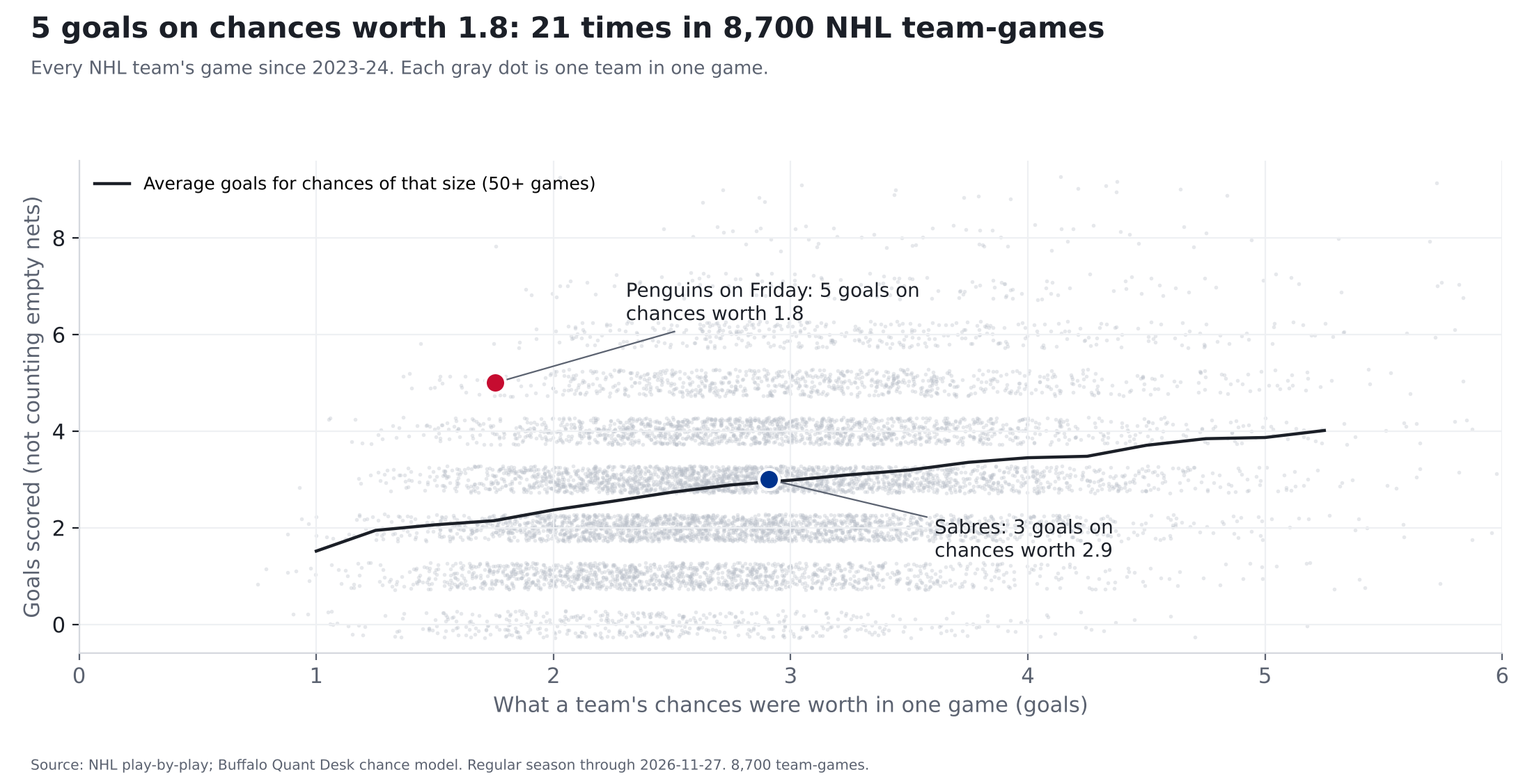
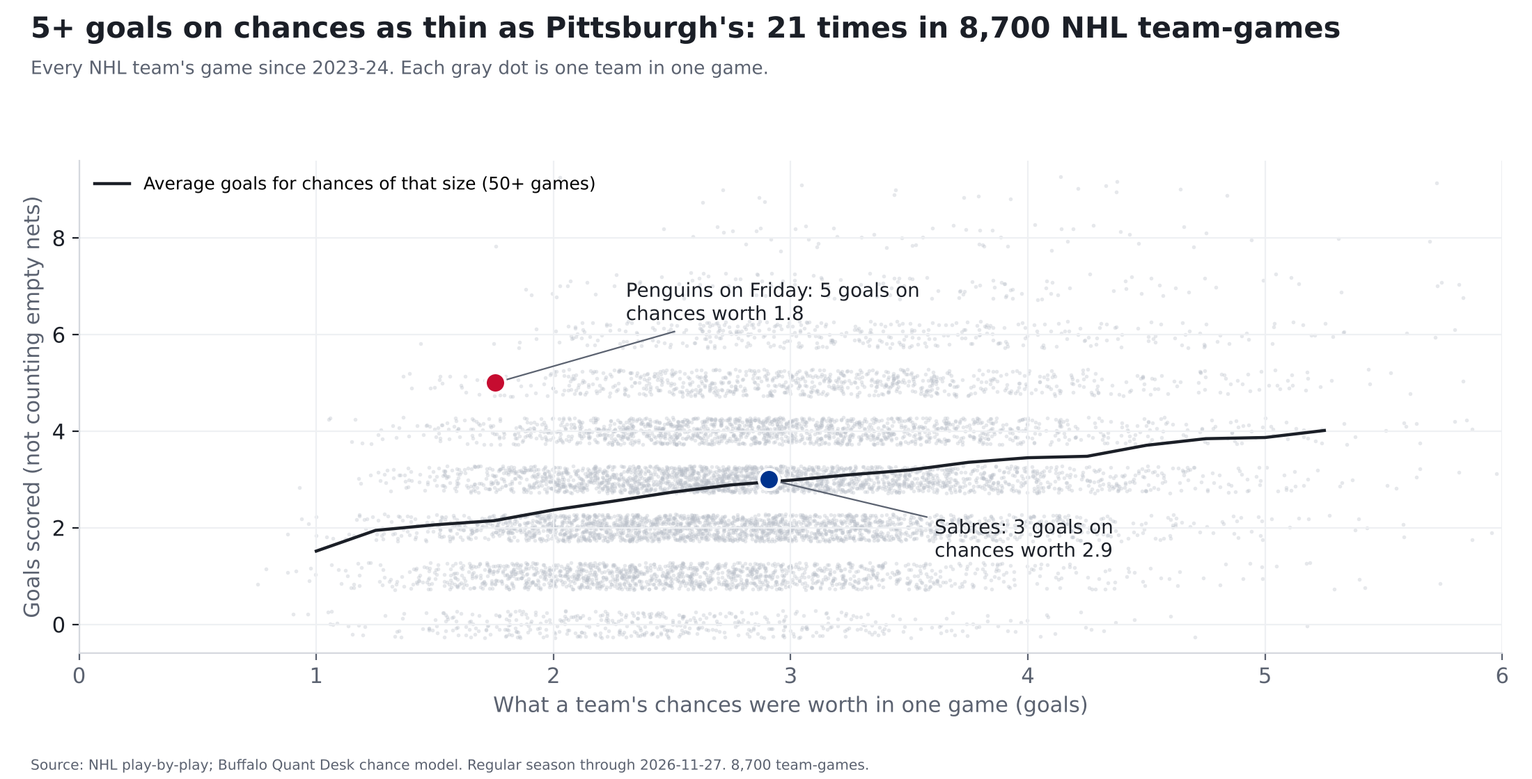
Sabres-Penguins recap: round-1 review fixes
Claude-Session: https://claude.ai/code/session_01EpbAX7fMNT8LnsxAN6UoCp

Changed region(s): [[0.0309, 0.0, 0.8964, 0.0625]]

diff --git a/src/reports/sabres_pit_postgame_nov27.py b/src/reports/sabres_pit_postgame_nov27.py
@@ -71,6 +71,7 @@ def main(as_of=AS_OF):
     assert liz_before == 41
     far = pg.sort_values("dist").iloc[-1]
     close_b = goals[goals.team == "BUF"].sort_values("dist").iloc[0]
+    assert close_b.shooter_id == goals[goals.team == "BUF"].shooter_id.iloc[-1]
 
     # ---- how rare: every team-game since 2023-24
     tg = u.groupby(["game_id", "season", "team"]).agg(gl=("goal", "sum"), x=("xg", "sum")).reset_index()
@@ -78,6 +79,8 @@ def main(as_of=AS_OF):
     rare = tg[(tg.gl >= me.gl) & (tg.x <= me.x)]
     rare_pit = int((rare.team == "PIT").sum())
     assert (len(rare), len(tg), rare_pit, int(me.gl)) == (21, 8700, 5, 5)
+    every = int(round(len(tg) / len(rare), -2))
+    assert every == 400
     near = tg[(tg.x - me.x).abs() <= 0.25]
     avg_near = float(near.gl.mean())
 
@@ -133,7 +136,7 @@ def main(as_of=AS_OF):
     for sp in ("top", "right"):
         ax.spines[sp].set_visible(False)
     fig.subplots_adjust(left=0.08, right=0.97, bottom=0.13, top=0.80)
-    finish(fig, f"{int(me.gl)} goals on chances worth {me.x:.1f}: {len(rare)} times in {len(tg):,} NHL team-games",
+    finish(fig, f"{int(me.gl)}+ goals on chances as thin as Pittsburgh's: {len(rare)} times in {len(tg):,} NHL team-games",
            "Every NHL team's game since 2023-24. Each gray dot is one team in one game.", "x")
     fig.texts[-1].set_text(f"Source: NHL play-by-play; Buffalo Quant Desk chance model. Regular season through {as_of}. {len(tg):,} team-games.")
     fig.savefig(OUT / PNG)
@@ -141,29 +144,28 @@ def main(as_of=AS_OF):
 
     plist = "; ".join(f"{r.name} from {r.dist:.0f} feet ({r.xg:.0%})" for r in pg.itertuples())
     bl = [r.name for r in goals[goals.team == "BUF"].itertuples()]
-    md = f"""# Penguins 6, Sabres 3: Pittsburgh's finishing came back all at once
+    md = f"""# Penguins 6, Sabres 3: Buffalo had the chances, Pittsburgh had the finish
 
 **Buffalo had the better chances on Friday, worth about {x_b:.1f} goals to Pittsburgh's {x_p:.1f}. The Penguins scored {int(me.gl)} anyway, plus an empty-netter.
-Since 2023-24, a team has scored {int(me.gl)} or more on chances worth {me.x:.1f} or less only {len(rare)} times in {len(tg):,} team-games, about once every
-{len(tg) / len(rare):,.0f}. Our preview said Pittsburgh's poor finishing probably wouldn't last. It didn't take long. Our call, Sabres {pr.probability:.0%}, was a miss.**
+Since 2023-24, a team has scored {int(me.gl)} or more on chances worth no more than Pittsburgh's only {len(rare)} times in {len(tg):,} team-games, about once every
+{every}. Our preview said Pittsburgh's poor finishing probably wouldn't last over the season. One game doesn't prove that, but Friday was a big swing. Our call, Sabres {pr.probability:.0%}, was a miss.**
 
-![{int(me.gl)} goals on chances worth {me.x:.1f}: {len(rare)} times in {len(tg):,} NHL team-games]({PNG})
+![{int(me.gl)}+ goals on chances as thin as Pittsburgh's: {len(rare)} times in {len(tg):,} NHL team-games]({PNG})
 
 ## The game
 
-Buffalo had {n_b} unblocked shots to Pittsburgh's {n_p}, and {share_g:.0%} of the chances. Buffalo's goals came from {", ".join(bl[:-1])} and {bl[-1]};
-{close_b['name']}'s came from {close_b.dist:.0f} feet, a chance worth about {close_b.xg:.0%}.
+Buffalo had {n_b} shots that weren't blocked to Pittsburgh's {n_p}, and {share_g:.0%} of the chances. Buffalo's goals came from {", ".join(bl[:-1])} and {bl[-1]}, whose goal came from {close_b.dist:.0f} feet, a chance worth about {close_b.xg:.0%}.
 
 Pittsburgh's five: {plist}. The percentages are each shot's chance of going in. {en_name} added an empty-netter late.
 
 **In goal:** {g1n} allowed {int(g1.ga)} goals on {int(g1.n)} unblocked shots worth about {g1.x:.1f} and was replaced after Lizotte's goal, {pull_c} into the {ordn(pull_p)} period.
-{g2n} allowed {int(g2.ga)} on {int(g2.n)} shots worth about {g2.x:.1f}. {pit_g} was in net for Pittsburgh and allowed {int(g.home_score)} on chances worth {x_b:.1f}, about what an average goalie would.
+{g2n} allowed {int(g2.ga)} on {int(g2.n)} unblocked shots worth about {g2.x:.1f}. {pit_g} was in net for Pittsburgh and allowed {int(g.home_score)} on chances worth {x_b:.1f}, about what an average goalie would.
 
 ## How rare that is
 
 Every shot that isn't blocked gets a value: the share of similar shots that go in, based on distance, angle, shot type and whether it's a rebound or rush.
 Add them up and you get what a team's chances were worth. Teams with chances worth about {me.x:.1f} (within a quarter-goal) have scored {avg_near:.1f} goals on average.
-Pittsburgh scored {int(me.gl)}. The chart shows every team-game since 2023-24; only {len(rare)} had {int(me.gl)} or more goals on chances worth {me.x:.1f} or less, and {rare_pit} of them, counting Friday, are Pittsburgh's.
+Pittsburgh scored {int(me.gl)}. The chart shows every team-game since 2023-24; only {len(rare)} had {int(me.gl)} or more goals on chances worth no more than Pittsburgh's, and {rare_pit} of them, counting Friday, are Pittsburgh's.
 
 **How we checked it.** The shot values are scaled each season so that, across the league, chances add up to goals. And the 41-shot example in our preview,
 Blake Lizotte with no goals on chances worth about 3, scored on Friday from {liz.dist.iloc[0]:.0f} feet, a chance worth about {liz.xg.iloc[0]:.0%}. That's what finishing luck looks like
@@ -172,12 +174,12 @@ when it turns.
 ## What it means
 
 One game doesn't change much. Buffalo gets {B.share:.0%} of the chances in its games, {ordn(rk['share']['BUF'])} in the NHL, and that's the number that carries forward.
-Pittsburgh is still {ordn(rk['fin']['PIT'])} in finishing after Friday; one big night only moves a season so far. The Sabres are {W}-{L}-{OTL}.
+Pittsburgh is {ordn(rk['fin']['PIT'])} in finishing after Friday; one big night only moves a season so far. The Sabres are {W}-{L}-{OTL}.
 
 ## Receipts
 
 - **Our preview** said Pittsburgh's finishing and goaltending would probably come back toward average, and that it wouldn't necessarily show up in one game.
-  The finishing showed up in one game, though one game is mostly luck either way. Murashov had an average night. We'll keep tracking both over the season.
+  One game is mostly luck either way, so Friday doesn't settle a season-long call. Murashov had an average night. We'll keep tracking both over the season.
 - **The Ledger** gave the Sabres {pr.probability:.0%}. They lost, so it's a miss. On our scorecard, where 0 is perfect and a coin flip scores 0.25, it scored {mg.brier:.2f}.
   Our record is {right} of {len(m)}.
 
@@ -193,7 +195,7 @@ Pittsburgh is still {ordn(rk['fin']['PIT'])} in finishing after Friday; one big 
     (OUT / f"{SLUG}.hero.json").write_text(json.dumps({
         "label": "Penguins 6, Sabres 3",
         "big": [[int(me.gl), f"Pittsburgh goals on chances worth {me.x:.1f}, not counting the empty-netter"],
-                [f"1 in {len(tg) / len(rare):,.0f}", "how often a team does that, since 2023-24"]],
+                [f"1 in {every}", "how often a team scores 5+ on chances that thin, since 2023-24"]],
         "note": f"Buffalo had {share_g:.0%} of the chances. Our 51% Sabres call was a miss.",
     }, indent=1))
     print(md)

diff --git a/src/site/build.py b/src/site/build.py
@@ -19,7 +19,7 @@ SITE = ROOT / "site"
 DOMAIN = "https://buffaloquant.com"
 ARTICLES = [  # newest first: (slug, report file, date, kicker, dek, hero image)
     ("sabres-penguins-postgame-nov-27", "2026-11-27-sabres-pit-postgame.md", "2026-11-28", "Sabres &middot; Recap",
-     "Buffalo had 62% of the chances and lost 6-3. Pittsburgh scored 5 on chances worth 1.8, something that's happened 21 times in 8,700 team-games since 2023-24.",
+     "Buffalo had 62% of the chances and lost 6-3. Pittsburgh scored 5 on chances worth 1.8. Since 2023-24, a team has scored 5 or more on chances that thin only 21 times in 8,700 team-games.",
      "sabres-pit-nov27-postgame.png"),
     ("sabres-penguins-pregame-nov-27", "2026-11-27-sabres-pit-pregame.md", "2026-11-27", "Sabres &middot; Preview",
      "Pittsburgh has the 2nd-fewest points in the NHL but gets half the chances. Its shooting and goaltending have let it down, and history says neither usually lasts. Our model: Sabres 51%.",

diff --git a/src/ledger/grade_p0026.py b/src/ledger/grade_p0026.py
@@ -1,4 +1,4 @@
-"""Grade Ledger P0026 (Sabres beat the Penguins, Nov 27, 2026, 49%). Run once; grades are append-only."""
+"""Grade Ledger P0026 (Sabres beat the Penguins, Nov 27, 2026, 51%). Run once; grades are append-only."""
 from src.db import query
 from src.ledger.ledger import grade, load_to_db
 

diff --git a/reports/reviews/2026-11-27-sabres-pit-postgame-quant-r1.md b/reports/reviews/2026-11-27-sabres-pit-postgame-quant-r1.md
@@ -1,0 +1,74 @@
+# Quant review: Penguins 6, Sabres 3 (2026-11-27)
+
+Reviewer: independent Quant (stage 2). Commit b642c7ae. Every number re-derived with my own queries against `raw_nhl_games`,
+`raw_nhl_schedule`, `raw_nhl_plays`, `raw_nhl_rosters` and `clean_nhl_shots_xg` (per-shot model xG only; filters, per-season
+rescale, team-game build, goalie split, ranks, record and Ledger all recomputed independently). Generator not used.
+
+**Verdict: FAIL (publish with fixes).** The numbers are right. The rarity cutoff is misdescribed in four places, and the
+headline and lead treat one game as proof that the preview was right.
+
+## Required fixes
+
+### 1. The cutoff is "Pittsburgh's own 1.755", not "1.8 or less". At "1.8 or less" the count is 26, not 21.
+The count (21 of 8,700, PIT 5) uses `xG <= 1.755` (Pittsburgh's exact value). The fan-facing text rounds the cutoff to 1.8, and the
+count at a literal 1.8 cutoff is different:
+
+| Cutoff (5+ non-empty-net goals) | Team-games | PIT |
+|---|---|---|
+| <= 1.50 | 6 | 0 |
+| <= 1.75 | 18 | 3 |
+| **<= 1.755 (PIT's value, used)** | **21** | **5** |
+| <= 1.80 | 26 | 5 |
+| <= 2.00 | 47 | 6 |
+
+Three of the 21 (VGK 1.751, PIT 1.753, PIT 1.755) sit within 0.005 of the cutoff, so the count is very sensitive to it. Using the
+team's own value as an "at least this extreme" cutoff is fair, but the text has to say so. Fixes (writer computes nothing new):
+
+- Lead. Old: `a team has scored 5 or more on chances worth 1.8 or less only 21 times in 8,700 team-games, about once every
+414.` New: `a team has scored 5 or more on chances worth no more than Pittsburgh's only 21 times in 8,700 team-games, about once every
+400.`
+- How rare. Old: `only 21 had 5 or more goals on chances worth 1.8 or less, and 5 of them` New: `only 21 had 5 or more goals on chances worth no more than Pittsburgh's, and 5 of them`
+- Chart title and image alt text. Old: `5 goals on chances worth 1.8: 21 times in 8,700 NHL team-games` New: `5+ goals on chances as thin as Pittsburgh's: 21 times in 8,700 NHL team-games`
+  (also fixes "5 goals": two of the 21 had 6). Width checked against the current title; it fits. Re-freeze the PNG hash afterward.
+- Site dek (`src/site/build.py`). Old: `Pittsburgh scored 5 on chances worth 1.8, something that's happened 21 times in 8,700 team-games since 2023-24.`
+  New: `Pittsburgh scored 5 on chances worth 1.8. Since 2023-24, a team has scored 5 or more on chances that thin only 21 times in 8,700 team-games.`
+- Hero `big[1]` label. Old: `how often a team does that, since 2023-24` New: `how often a team scores 5+ on chances that thin, since 2023-24`
+
+**"About once every 414"** is arithmetically right (8,700 / 21 = 414.3), but three significant figures overstate the precision of
+a count that moves from 18 to 26 across a 0.05 change in the cutoff. Say "about once every 400" in the lead and "1 in 400" in the hero
+(format as `round(len(tg)/len(rare), -2)`). Strongly recommended.
+
+### 2. Overclaim: the headline and lead treat one game as proof
+- Headline: `Pittsburgh's finishing came back all at once`. Lead: `Our preview said Pittsburgh's poor finishing probably wouldn't last. It didn't take long.`
+  The preview made a season-long call and said it "won't necessarily show up in one game". Five goals on 1.8 isn't finishing
+  "coming back" to average. It's a one-game outlier the other way, and the story itself says "one game is mostly luck either way" and
+  that Pittsburgh is still 25th. The Rangers recap (Nov. 25) handled a one-game *miss* on the same kind of call as "season-long calls,
+  and we'll keep tracking them". Claiming a one-game *hit* here is asymmetric scorekeeping.
+  - Headline. Old: `# Penguins 6, Sabres 3: Pittsburgh's finishing came back all at once` New: `# Penguins 6, Sabres 3: Buffalo had the chances, Pittsburgh had the finish`
+  - Lead. Old: `Our preview said Pittsburgh's poor finishing probably wouldn't last. It didn't take long.` New: `Our preview said Pittsburgh's poor finishing probably wouldn't last over the season. One game doesn't prove that, but Friday was a big swing.`
+  - Receipts. Old: `The finishing showed up in one game, though one game is mostly luck either way.` New: `One game is mostly luck either way, so Friday doesn't settle a season-long call.`
+
+## Minor fixes
+3. Lyon's "shots" are unblocked shots, including misses. Lyon faced 18 shots on goal (17 saves), and a fan checking the box score sees
+   18, not 20. Old: `Alex Lyon allowed 1 on 20 shots worth about 1.2.` New: `Alex Lyon allowed 1 on 20 unblocked shots worth about 1.2.`
+   This matches the Luukkonen sentence. (Luukkonen faced 10 shots on goal and 12 unblocked shots.)
+4. Not published: the `src/ledger/grade_p0026.py` docstring says "49%". P0026 is 0.51. Old: `(Sabres beat the Penguins, Nov 27, 2026, 49%)` New: `(Sabres beat the Penguins, Nov 27, 2026, 51%)`.
+5. Optional: "Pittsburgh is still 25th in finishing". The preview had it 28th, so "still" could read as unchanged. Consider "is 25th in finishing even after Friday".
+
+## What I verified (all match)
+- Data scope: 4,350 regular-season games through 2026-11-27, all `OFF`. 1,312 per season for 2023-24 to 2025-26 and 414 for 2026-27, so 8,700 team-games, none with zero shots. All 15 Nov. 27 games were final, and the pins need no late games.
+- Rescale factors: 1.0227, 1.0104, 0.9713, and 1.0031 for 2026-27 (stat-heads says 1.003).
+- Game 2026020413: BUF 3, PIT 6 in regulation (REG) at Buffalo. Unblocked non-empty-net shots BUF 36, PIT 32 (PIT 33 counting the empty-net goal). Chances BUF 2.907, PIT 1.755, share 0.6235 (62%).
+- Goals, from raw plays and shots: Kulich 1st 0:31 (8 ft), Dahlin 1st 9:19 (7 ft, 5v4), Norris 2nd 12:11 (2.2 ft, 0.478, the closest BUF goal).
+  PIT goals: Kindel 18.2 ft 0.045, Letang 42.6 ft 0.049 (4v4), McGroarty 11.0 ft 0.124, Lizotte 31.0 ft 0.116, Koivunen 25.6 ft 0.124. Malkin empty-net goal 3rd 17:59.
+  The rounded distances and percentages in the story are all correct.
+- Goalie split: Luukkonen 12 unblocked / 4 GA / 0.578 chances (GSAx -3.42). Lyon 20 / 1 / 1.177 (+0.18). Murashov 36 / 3 / 2.907 (about -0.09, so "about average" holds).
+- Replacement: raw plays show Lizotte's goal at 2nd 3:15 (sortOrder 295, goalie in net Luukkonen), then the faceoff at 3:15, then the next
+  PIT shot at 3:23 with `goalieInNetId` = Lyon. Lyon came in right after Lizotte's goal, not later. The 2nd-period clock 3:15 is correct.
+- Lizotte before Friday (2026-27): 41 unblocked shots, 0 goals, chances 3.26, so "about 3" holds.
+- Rarity: 21 of 8,700. PIT has 5 (2024-04-02, 2024-12-03, 2024-12-19, 2025-10-23, 2026-11-27). Near-1.755 (±0.25) mean 2.148 on n 949, so "2.1" holds.
+- Season through Nov. 27: BUF chance share 0.4835, 21st (min rank). PIT finishing -0.204 per game, 25th, and also 25th on the total. PIT saves -0.278 per game, 27th.
+- BUF record from scores: 11-11-4 (26 GP).
+- Ledger: P0026 was logged at 00:32:32Z, before the 01:00Z puck drop. p = 0.51, outcome 0, Brier 0.51² = 0.2601. The record (side above 50% won, P0017 ungraded, no 0.50 calls) is 15 of 25. That follows from 13 of 22 in the NYR recap, plus P0024 and P0025 right and P0026 wrong.
+- Brand: no betting language. Stat terms only in "For the stat-heads". Sample sizes stated (8,700, n 949, 41 shots). The chart footer has the source and the sample.
+- Chart: I looked at the PNG. Title fits, no label overlap, and the two highlighted points sit at (1.76, 5) and (2.91, 3).

diff --git a/reports/reviews/2026-11-27-sabres-pit-postgame-quant.md b/reports/reviews/2026-11-27-sabres-pit-postgame-quant.md
@@ -1,0 +1,74 @@
+# Quant review: Penguins 6, Sabres 3 (2026-11-27)
+
+Reviewer: independent Quant (stage 2). Commit b642c7ae. Every number re-derived with my own queries against `raw_nhl_games`,
+`raw_nhl_schedule`, `raw_nhl_plays`, `raw_nhl_rosters` and `clean_nhl_shots_xg` (per-shot model xG only; filters, per-season
+rescale, team-game build, goalie split, ranks, record and Ledger all recomputed independently). Generator not used.
+
+**Verdict: FAIL (publish with fixes).** The numbers are right. The rarity cutoff is misdescribed in four places, and the
+headline and lead treat one game as proof that the preview was right.
+
+## Required fixes
+
+### 1. The cutoff is "Pittsburgh's own 1.755", not "1.8 or less". At "1.8 or less" the count is 26, not 21.
+The count (21 of 8,700, PIT 5) uses `xG <= 1.755` (Pittsburgh's exact value). The fan-facing text rounds the cutoff to 1.8, and the
+count at a literal 1.8 cutoff is different:
+
+| Cutoff (5+ non-empty-net goals) | Team-games | PIT |
+|---|---|---|
+| <= 1.50 | 6 | 0 |
+| <= 1.75 | 18 | 3 |
+| **<= 1.755 (PIT's value, used)** | **21** | **5** |
+| <= 1.80 | 26 | 5 |
+| <= 2.00 | 47 | 6 |
+
+Three of the 21 (VGK 1.751, PIT 1.753, PIT 1.755) sit within 0.005 of the cutoff, so the count is very sensitive to it. Using the
+team's own value as an "at least this extreme" cutoff is fair, but the text has to say so. Fixes (writer computes nothing new):
+
+- Lead. Old: `a team has scored 5 or more on chances worth 1.8 or less only 21 times in 8,700 team-games, about once every
+414.` New: `a team has scored 5 or more on chances worth no more than Pittsburgh's only 21 times in 8,700 team-games, about once every
+400.`
+- How rare. Old: `only 21 had 5 or more goals on chances worth 1.8 or less, and 5 of them` New: `only 21 had 5 or more goals on chances worth no more than Pittsburgh's, and 5 of them`
+- Chart title and image alt text. Old: `5 goals on chances worth 1.8: 21 times in 8,700 NHL team-games` New: `5+ goals on chances as thin as Pittsburgh's: 21 times in 8,700 NHL team-games`
+  (also fixes "5 goals": two of the 21 had 6). Width checked against the current title; it fits. Re-freeze the PNG hash afterward.
+- Site dek (`src/site/build.py`). Old: `Pittsburgh scored 5 on chances worth 1.8, something that's happened 21 times in 8,700 team-games since 2023-24.`
+  New: `Pittsburgh scored 5 on chances worth 1.8. Since 2023-24, a team has scored 5 or more on chances that thin only 21 times in 8,700 team-games.`
+- Hero `big[1]` label. Old: `how often a team does that, since 2023-24` New: `how often a team scores 5+ on chances that thin, since 2023-24`
+
+**"About once every 414"** is arithmetically right (8,700 / 21 = 414.3), but three significant figures overstate the precision of
+a count that moves from 18 to 26 across a 0.05 change in the cutoff. Say "about once every 400" in the lead and "1 in 400" in the hero
+(format as `round(len(tg)/len(rare), -2)`). Strongly recommended.
+
+### 2. Overclaim: the headline and lead treat one game as proof
+- Headline: `Pittsburgh's finishing came back all at once`. Lead: `Our preview said Pittsburgh's poor finishing probably wouldn't last. It didn't take long.`
+  The preview made a season-long call and said it "won't necessarily show up in one game". Five goals on 1.8 isn't finishing
+  "coming back" to average. It's a one-game outlier the other way, and the story itself says "one game is mostly luck either way" and
+  that Pittsburgh is still 25th. The Rangers recap (Nov. 25) handled a one-game *miss* on the same kind of call as "season-long calls,
+  and we'll keep tracking them". Claiming a one-game *hit* here is asymmetric scorekeeping.
+  - Headline. Old: `# Penguins 6, Sabres 3: Pittsburgh's finishing came back all at once` New: `# Penguins 6, Sabres 3: Buffalo had the chances, Pittsburgh had the finish`
+  - Lead. Old: `Our preview said Pittsburgh's poor finishing probably wouldn't last. It didn't take long.` New: `Our preview said Pittsburgh's poor finishing probably wouldn't last over the season. One game doesn't prove that, but Friday was a big swing.`
+  - Receipts. Old: `The finishing showed up in one game, though one game is mostly luck either way.` New: `One game is mostly luck either way, so Friday doesn't settle a season-long call.`
+
+## Minor fixes
+3. Lyon's "shots" are unblocked shots, including misses. Lyon faced 18 shots on goal (17 saves), and a fan checking the box score sees
+   18, not 20. Old: `Alex Lyon allowed 1 on 20 shots worth about 1.2.` New: `Alex Lyon allowed 1 on 20 unblocked shots worth about 1.2.`
+   This matches the Luukkonen sentence. (Luukkonen faced 10 shots on goal and 12 unblocked shots.)
+4. Not published: the `src/ledger/grade_p0026.py` docstring says "49%". P0026 is 0.51. Old: `(Sabres beat the Penguins, Nov 27, 2026, 49%)` New: `(Sabres beat the Penguins, Nov 27, 2026, 51%)`.
+5. Optional: "Pittsburgh is still 25th in finishing". The preview had it 28th, so "still" could read as unchanged. Consider "is 25th in finishing even after Friday".
+
+## What I verified (all match)
+- Data scope: 4,350 regular-season games through 2026-11-27, all `OFF`. 1,312 per season for 2023-24 to 2025-26 and 414 for 2026-27, so 8,700 team-games, none with zero shots. All 15 Nov. 27 games were final, and the pins need no late games.
+- Rescale factors: 1.0227, 1.0104, 0.9713, and 1.0031 for 2026-27 (stat-heads says 1.003).
+- Game 2026020413: BUF 3, PIT 6 in regulation (REG) at Buffalo. Unblocked non-empty-net shots BUF 36, PIT 32 (PIT 33 counting the empty-net goal). Chances BUF 2.907, PIT 1.755, share 0.6235 (62%).
+- Goals, from raw plays and shots: Kulich 1st 0:31 (8 ft), Dahlin 1st 9:19 (7 ft, 5v4), Norris 2nd 12:11 (2.2 ft, 0.478, the closest BUF goal).
+  PIT goals: Kindel 18.2 ft 0.045, Letang 42.6 ft 0.049 (4v4), McGroarty 11.0 ft 0.124, Lizotte 31.0 ft 0.116, Koivunen 25.6 ft 0.124. Malkin empty-net goal 3rd 17:59.
+  The rounded distances and percentages in the story are all correct.
+- Goalie split: Luukkonen 12 unblocked / 4 GA / 0.578 chances (GSAx -3.42). Lyon 20 / 1 / 1.177 (+0.18). Murashov 36 / 3 / 2.907 (about -0.09, so "about average" holds).
+- Replacement: raw plays show Lizotte's goal at 2nd 3:15 (sortOrder 295, goalie in net Luukkonen), then the faceoff at 3:15, then the next
+  PIT shot at 3:23 with `goalieInNetId` = Lyon. Lyon came in right after Lizotte's goal, not later. The 2nd-period clock 3:15 is correct.
+- Lizotte before Friday (2026-27): 41 unblocked shots, 0 goals, chances 3.26, so "about 3" holds.
+- Rarity: 21 of 8,700. PIT has 5 (2024-04-02, 2024-12-03, 2024-12-19, 2025-10-23, 2026-11-27). Near-1.755 (±0.25) mean 2.148 on n 949, so "2.1" holds.
+- Season through Nov. 27: BUF chance share 0.4835, 21st (min rank). PIT finishing -0.204 per game, 25th, and also 25th on the total. PIT saves -0.278 per game, 27th.
+- BUF record from scores: 11-11-4 (26 GP).
+- Ledger: P0026 was logged at 00:32:32Z, before the 01:00Z puck drop. p = 0.51, outcome 0, Brier 0.51² = 0.2601. The record (side above 50% won, P0017 ungraded, no 0.50 calls) is 15 of 25. That follows from 13 of 22 in the NYR recap, plus P0024 and P0025 right and P0026 wrong.
+- Brand: no betting language. Stat terms only in "For the stat-heads". Sample sizes stated (8,700, n 949, 41 shots). The chart footer has the source and the sample.
+- Chart: I looked at the PNG. Title fits, no label overlap, and the two highlighted points sit at (1.76, 5) and (2.91, 3).

diff --git a/reports/2026-11-27-sabres-pit-postgame.md b/reports/2026-11-27-sabres-pit-postgame.md
@@ -1,26 +1,25 @@
-# Penguins 6, Sabres 3: Pittsburgh's finishing came back all at once
+# Penguins 6, Sabres 3: Buffalo had the chances, Pittsburgh had the finish
 
 **Buffalo had the better chances on Friday, worth about 2.9 goals to Pittsburgh's 1.8. The Penguins scored 5 anyway, plus an empty-netter.
-Since 2023-24, a team has scored 5 or more on chances worth 1.8 or less only 21 times in 8,700 team-games, about once every
-414. Our preview said Pittsburgh's poor finishing probably wouldn't last. It didn't take long. Our call, Sabres 51%, was a miss.**
+Since 2023-24, a team has scored 5 or more on chances worth no more than Pittsburgh's only 21 times in 8,700 team-games, about once every
+400. Our preview said Pittsburgh's poor finishing probably wouldn't last over the season. One game doesn't prove that, but Friday was a big swing. Our call, Sabres 51%, was a miss.**
 
-![5 goals on chances worth 1.8: 21 times in 8,700 NHL team-games](sabres-pit-nov27-postgame.png)
+![5+ goals on chances as thin as Pittsburgh's: 21 times in 8,700 NHL team-games](sabres-pit-nov27-postgame.png)
 
 ## The game
 
-Buffalo had 36 unblocked shots to Pittsburgh's 32, and 62% of the chances. Buffalo's goals came from Jiri Kulich, Rasmus Dahlin and Josh Norris;
-Josh Norris's came from 2 feet, a chance worth about 48%.
+Buffalo had 36 shots that weren't blocked to Pittsburgh's 32, and 62% of the chances. Buffalo's goals came from Jiri Kulich, Rasmus Dahlin and Josh Norris, whose goal came from 2 feet, a chance worth about 48%.
 
 Pittsburgh's five: Ben Kindel from 18 feet (4%); Kris Letang from 43 feet (5%); Rutger McGroarty from 11 feet (12%); Blake Lizotte from 31 feet (12%); Ville Koivunen from 26 feet (12%). The percentages are each shot's chance of going in. Evgeni Malkin added an empty-netter late.
 
 **In goal:** Ukko-Pekka Luukkonen allowed 4 goals on 12 unblocked shots worth about 0.6 and was replaced after Lizotte's goal, 3:15 into the 2nd period.
-Alex Lyon allowed 1 on 20 shots worth about 1.2. Sergei Murashov was in net for Pittsburgh and allowed 3 on chances worth 2.9, about what an average goalie would.
+Alex Lyon allowed 1 on 20 unblocked shots worth about 1.2. Sergei Murashov was in net for Pittsburgh and allowed 3 on chances worth 2.9, about what an average goalie would.
 
 ## How rare that is
 
 Every shot that isn't blocked gets a value: the share of similar shots that go in, based on distance, angle, shot type and whether it's a rebound or rush.
 Add them up and you get what a team's chances were worth. Teams with chances worth about 1.8 (within a quarter-goal) have scored 2.1 goals on average.
-Pittsburgh scored 5. The chart shows every team-game since 2023-24; only 21 had 5 or more goals on chances worth 1.8 or less, and 5 of them, counting Friday, are Pittsburgh's.
+Pittsburgh scored 5. The chart shows every team-game since 2023-24; only 21 had 5 or more goals on chances worth no more than Pittsburgh's, and 5 of them, counting Friday, are Pittsburgh's.
 
 **How we checked it.** The shot values are scaled each season so that, across the league, chances add up to goals. And the 41-shot example in our preview,
 Blake Lizotte with no goals on chances worth about 3, scored on Friday from 31 feet, a chance worth about 12%. That's what finishing luck looks like
@@ -29,12 +28,12 @@ when it turns.
 ## What it means
 
 One game doesn't change much. Buffalo gets 48% of the chances in its games, 21st in the NHL, and that's the number that carries forward.
-Pittsburgh is still 25th in finishing after Friday; one big night only moves a season so far. The Sabres are 11-11-4.
+Pittsburgh is 25th in finishing after Friday; one big night only moves a season so far. The Sabres are 11-11-4.
 
 ## Receipts
 
 - **Our preview** said Pittsburgh's finishing and goaltending would probably come back toward average, and that it wouldn't necessarily show up in one game.
-  The finishing showed up in one game, though one game is mostly luck either way. Murashov had an average night. We'll keep tracking both over the season.
+  One game is mostly luck either way, so Friday doesn't settle a season-long call. Murashov had an average night. We'll keep tracking both over the season.
 - **The Ledger** gave the Sabres 51%. They lost, so it's a miss. On our scorecard, where 0 is perfect and a coin flip scores 0.25, it scored 0.26.
   Our record is 15 of 25.
 

diff --git a/reports/reviews/2026-11-27-sabres-pit-postgame-editor-r1.md b/reports/reviews/2026-11-27-sabres-pit-postgame-editor-r1.md
@@ -1,0 +1,32 @@
+# Editor review: Penguins 6, Sabres 3 (2026-11-27)
+
+**One-sentence version (radio):** "The Sabres got the better looks Friday, but Pittsburgh scored five goals on chances that are usually
+worth about two, something an NHL team has done only about once every 400 times since 2023."
+
+**Verdict: FAIL (needs edits).** The story is short, well ordered, and has a good hook. Two things block it: the headline sells a
+conclusion the body walks back, and three stand-alone lines (chart title, dek, hero) state the cutoff in a way that doesn't match
+the count. That cutoff problem is the Quant's issue 1; take those edits from the Quant report.
+
+## Edits, most important first
+1. Headline. Old: `# Penguins 6, Sabres 3: Pittsburgh's finishing came back all at once` New: `# Penguins 6, Sabres 3: Buffalo had the chances, Pittsburgh had the finish`.
+   The body says one game is mostly luck and Pittsburgh is still 25th. The headline shouldn't say the opposite.
+2. Lead. Old: `It didn't take long.` Replace it with the Quant's wording: `Our preview said Pittsburgh's poor finishing probably wouldn't last over the season. One game doesn't prove that, but Friday was a big swing.`
+3. Chart title, dek and hero: use the Quant's issue-1 wording. Each has to read alone, and "5 goals on chances worth 1.8: 21 times"
+   is both inaccurate (26 at a 1.8 cutoff) and wrong on "5" (two of the 21 had 6).
+   Hero line 2 alone, "how often a team does that", doesn't say what "that" is. Use `how often a team scores 5+ on chances that thin, since 2023-24`.
+4. Repetition. Old: `Buffalo's goals came from Jiri Kulich, Rasmus Dahlin and Josh Norris;\nJosh Norris's came from 2 feet, a chance worth about 48%.`
+   New: `Buffalo's goals came from Jiri Kulich, Rasmus Dahlin and Josh Norris, whose goal came from 2 feet, a chance worth about 48%.`
+5. Jargon. "unblocked shots" first appears in "The game", before "How rare that is" explains it. Old: `Buffalo had 36 unblocked shots to Pittsburgh's 32`
+   New: `Buffalo had 36 shots that weren't blocked to Pittsburgh's 32`. Also take the Quant's Lyon fix ("20 unblocked shots") so the two goalie lines match.
+6. Optional: "team-games" is our word, not a fan's. If the writer wants it plainer, "8,700 times an NHL team has played a game" works. It's fine to keep it as is, since the chart subtitle explains it.
+
+## Checked
+- Rejected phrases ("lopsided", "the home kind", "go the other way", "in reverse", "good end/bad end"): none found.
+- No betting language. No stat terms in the body (xG, GSAx and the like appear only in "For the stat-heads").
+- Where the key number comes from: "How rare that is" explains the shot values, the add-up, the near-1.8 baseline (2.1 goals) and the
+  per-season scaling. It ties back to the headline (5 vs. 2.1) and uses the Lizotte callback as the worked example. That's the right size.
+- Chart: I looked at the PNG. The title fits on one line, the annotations don't overlap the points or each other, the legend is clear, and the footer
+  has the source and 8,700 team-games. A fan reads it in five seconds: the red dot sits far above the line.
+- Links: the story has no inline links. The site card image `sabres-pit-nov27-postgame.png` exists and is frozen in `published_images.json`
+  (re-freeze after the title fix).
+- What's predictive: "What it means" points to the number that carries forward, Buffalo's 48% share (21st). Good.

diff --git a/reports/reviews/2026-11-27-sabres-pit-postgame-editor.md b/reports/reviews/2026-11-27-sabres-pit-postgame-editor.md
@@ -1,0 +1,32 @@
+# Editor review: Penguins 6, Sabres 3 (2026-11-27)
+
+**One-sentence version (radio):** "The Sabres got the better looks Friday, but Pittsburgh scored five goals on chances that are usually
+worth about two, something an NHL team has done only about once every 400 times since 2023."
+
+**Verdict: FAIL (needs edits).** The story is short, well ordered, and has a good hook. Two things block it: the headline sells a
+conclusion the body walks back, and three stand-alone lines (chart title, dek, hero) state the cutoff in a way that doesn't match
+the count. That cutoff problem is the Quant's issue 1; take those edits from the Quant report.
+
+## Edits, most important first
+1. Headline. Old: `# Penguins 6, Sabres 3: Pittsburgh's finishing came back all at once` New: `# Penguins 6, Sabres 3: Buffalo had the chances, Pittsburgh had the finish`.
+   The body says one game is mostly luck and Pittsburgh is still 25th. The headline shouldn't say the opposite.
+2. Lead. Old: `It didn't take long.` Replace it with the Quant's wording: `Our preview said Pittsburgh's poor finishing probably wouldn't last over the season. One game doesn't prove that, but Friday was a big swing.`
+3. Chart title, dek and hero: use the Quant's issue-1 wording. Each has to read alone, and "5 goals on chances worth 1.8: 21 times"
+   is both inaccurate (26 at a 1.8 cutoff) and wrong on "5" (two of the 21 had 6).
+   Hero line 2 alone, "how often a team does that", doesn't say what "that" is. Use `how often a team scores 5+ on chances that thin, since 2023-24`.
+4. Repetition. Old: `Buffalo's goals came from Jiri Kulich, Rasmus Dahlin and Josh Norris;\nJosh Norris's came from 2 feet, a chance worth about 48%.`
+   New: `Buffalo's goals came from Jiri Kulich, Rasmus Dahlin and Josh Norris, whose goal came from 2 feet, a chance worth about 48%.`
+5. Jargon. "unblocked shots" first appears in "The game", before "How rare that is" explains it. Old: `Buffalo had 36 unblocked shots to Pittsburgh's 32`
+   New: `Buffalo had 36 shots that weren't blocked to Pittsburgh's 32`. Also take the Quant's Lyon fix ("20 unblocked shots") so the two goalie lines match.
+6. Optional: "team-games" is our word, not a fan's. If the writer wants it plainer, "8,700 times an NHL team has played a game" works. It's fine to keep it as is, since the chart subtitle explains it.
+
+## Checked
+- Rejected phrases ("lopsided", "the home kind", "go the other way", "in reverse", "good end/bad end"): none found.
+- No betting language. No stat terms in the body (xG, GSAx and the like appear only in "For the stat-heads").
+- Where the key number comes from: "How rare that is" explains the shot values, the add-up, the near-1.8 baseline (2.1 goals) and the
+  per-season scaling. It ties back to the headline (5 vs. 2.1) and uses the Lizotte callback as the worked example. That's the right size.
+- Chart: I looked at the PNG. The title fits on one line, the annotations don't overlap the points or each other, the legend is clear, and the footer
+  has the source and 8,700 team-games. A fan reads it in five seconds: the red dot sits far above the line.
+- Links: the story has no inline links. The site card image `sabres-pit-nov27-postgame.png` exists and is frozen in `published_images.json`
+  (re-freeze after the title fix).
+- What's predictive: "What it means" points to the number that carries forward, Buffalo's 48% share (21st). Good.
